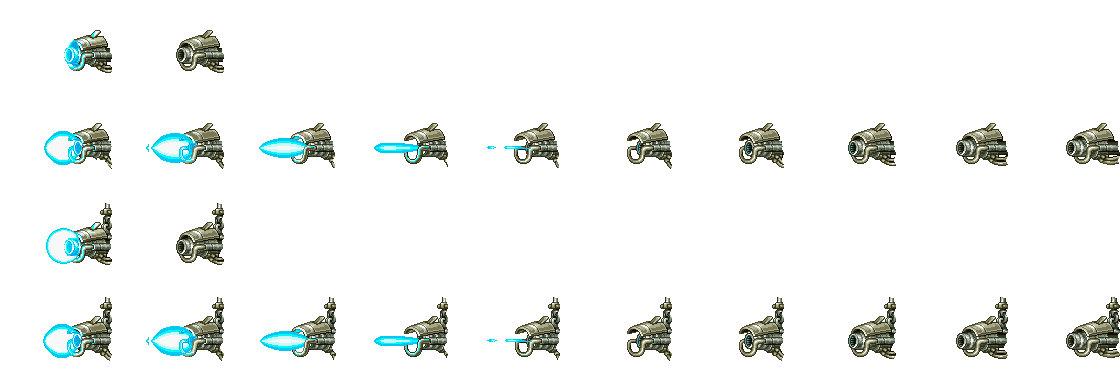
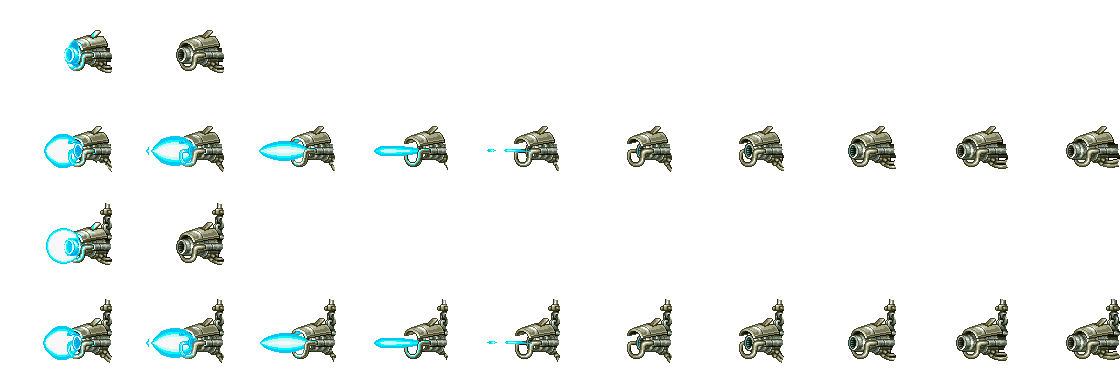
e

diff --git a/Solution/Project1/Boss.cpp b/Solution/Project1/Boss.cpp
@@ -16,7 +16,7 @@ void Boss::Init()
     UnloadImage(imgFlash);
     SetTextureFilter(flashSheet, TEXTURE_FILTER_POINT);
 
-    Image imgLaser = LoadImage("Graphics/boss/laser88x96.png");
+    Image imgLaser = LoadImage("Graphics/boss/laser112x96.png");
     laserSheet = LoadTextureFromImage(imgLaser);
     UnloadImage(imgLaser);
     SetTextureFilter(laserSheet, TEXTURE_FILTER_POINT);
@@ -30,6 +30,13 @@ void Boss::Init()
     tentSheet = LoadTextureFromImage(imgTent);
     UnloadImage(imgTent);
     SetTextureFilter(tentSheet, TEXTURE_FILTER_POINT);
+
+    Image imgLaserFlash = LoadImage("Graphics/boss/laserexplo112x96.png");
+    laserFlashSheet = LoadTextureFromImage(imgLaserFlash);
+    UnloadImage(imgLaserFlash);
+    SetTextureFilter(laserFlashSheet, TEXTURE_FILTER_POINT);
+    laserFlashDelay = CHARGE_DURATION / (float)CHARGE_PATTERN_LENGTH;
+
 
     cannonFrame = 9;
     cannonGoingUp = true;
@@ -85,6 +92,7 @@ void Boss::Update(float playerX)
         UpdateCannon(dt);
 
     UpdatePlasma(dt);
+    UpdateLaserFlash(dt);
 }
 
 void Boss::UpdateIntro(float playerX, float dt)
@@ -322,6 +330,11 @@ void Boss::UpdateLaser(float dt)
                 laserFrame = 0;
                 chargeTimer = 0.0f;
                 laserFrameTimer = 0.0f;
+                laserFlashActive = true;
+                laserFlashStep = 0;
+                laserFlashFrame = CHARGE_PATTERN[0];
+                laserFlashTimer = 0.0f;
+                laserFlashDelay = CHARGE_DURATION / (float)CHARGE_PATTERN_LENGTH;
             }
         }
         else {
@@ -332,24 +345,30 @@ void Boss::UpdateLaser(float dt)
                 laserFrame = 0;
                 chargeTimer = 0.0f;
                 laserFrameTimer = 0.0f;
+                laserFlashActive = true;
+                laserFlashStep = 0;
+                laserFlashFrame = CHARGE_PATTERN[0];
+                laserFlashTimer = 0.0f;
+                laserFlashDelay = CHARGE_DURATION / (float)CHARGE_PATTERN_LENGTH;
             }
         }
         break;
 
     case LaserState::CHARGING:
         chargeTimer += dt;
-
         // Alternar entre frame 0 y 1
         if (laserFrameTimer >= laserFrameDelay) {
             laserFrameTimer = 0.0f;
             laserFrame = (laserFrame + 1) % CHARGE_FRAMES;
         }
-
         if (chargeTimer >= CHARGE_DURATION) {
             laserState = LaserState::FIRING;
             laserFrame = 0;
             laserTimer = 0.0f;
             laserFrameTimer = 0.0f;
+            laserFlashFrame = 0;
+            laserFlashTimer = 0.0f;
+            laserFlashDelay = LASER_DURATION / (float)LASER_FIRE_FRAMES;  // ← nuevo delay para disparo
         }
         break;
 
@@ -369,6 +388,25 @@ void Boss::UpdateLaser(float dt)
             laserFrameTimer = 0.0f;
         }
         break;
+    }
+}
+
+void Boss::UpdateLaserFlash(float dt)
+{
+    laserFlashTimer += dt;
+    if (laserFlashTimer < laserFlashDelay) return;
+    laserFlashTimer = 0.0f;
+
+    if (laserState == LaserState::CHARGING) {
+        laserFlashStep++;
+        if (laserFlashStep >= CHARGE_PATTERN_LENGTH)
+            laserFlashStep = CHARGE_PATTERN_LENGTH - 1;
+        laserFlashFrame = CHARGE_PATTERN[laserFlashStep];
+    }
+    else if (laserState == LaserState::FIRING) {
+        laserFlashFrame++;
+        if (laserFlashFrame >= LASER_FIRE_FRAMES)
+            laserFlashFrame = LASER_FIRE_FRAMES - 1;  // queda en el último frame
     }
 }
 
@@ -586,7 +624,9 @@ void Boss::DrawLaser() const
         laserFrame, rowY, (int)cannonGoingUp);
 
     Rectangle src = { laserFrame * LASER_FRAME_W, rowY, LASER_FRAME_W, LASER_FRAME_H };
-    Rectangle dst = { posX, posY, LASER_FRAME_W * CANNON_SCALE, LASER_FRAME_H * CANNON_SCALE };
+    bool isDown = !cannonGoingUp;
+    float laserDrawY = posY + (isDown ? laserOffsetDownY : laserOffsetUpY);
+    Rectangle dst = { posX + laserOffsetX, laserDrawY, LASER_FRAME_W * CANNON_SCALE, LASER_FRAME_H * CANNON_SCALE };
     Color tint = (isFlashing && hitFlashCount % 2 == 0) ? Color{ 255,220,100,255 } : WHITE;
     DrawTexturePro(laserSheet, src, dst, { 0,0 }, 0.0f, tint);
 
@@ -598,6 +638,7 @@ void Boss::DrawLaser() const
         float endX = posX - 2000.0f;
         DrawLineEx({ startX, startY }, { endX, startY }, 6.0f, { 0, 200, 255, 200 });
     }
+    DrawLaserFlash();
 }
 
 void Boss::DrawTent() const
@@ -615,4 +656,21 @@ void Boss::DrawTent() const
     Rectangle src = { frame * TENT_FRAME_W, rowY, TENT_FRAME_W, TENT_FRAME_H };
     Rectangle dst = { posX + tentOffsetX, posY -30.0f, TENT_FRAME_W * TENT_SCALE, TENT_FRAME_H * TENT_SCALE };
     DrawTexturePro(tentSheet, src, dst, { 0, 0 }, 0.0f, WHITE);
+}
+
+void Boss::DrawLaserFlash() const
+{
+
+    if (laserState != LaserState::CHARGING) return;
+    float rowY = (laserState == LaserState::FIRING) ? LASER_FLASH_FRAME_H : 0.0f;
+
+    int frame = (laserState == LaserState::FIRING)
+        ? laserFlashFrame      // ← recorre los 17 sprites sin loop
+        : laserFlashFrame;     // patrón fila 0
+    
+    bool isDown = !cannonGoingUp;
+    float flashDrawY = posY + (isDown ? laserOffsetDownY -10.0f : laserOffsetUpY);  // ← +50 extra abajo
+    Rectangle dst = { posX + laserOffsetX, flashDrawY, LASER_FLASH_FRAME_W * CANNON_SCALE, LASER_FLASH_FRAME_H * CANNON_SCALE };
+    Rectangle src = { frame * LASER_FLASH_FRAME_W, rowY, LASER_FLASH_FRAME_W, LASER_FLASH_FRAME_H };
+    DrawTexturePro(laserFlashSheet, src, dst, { 0, 0 }, 0.0f, WHITE);
 }

diff --git a/Solution/Project1/Boss.hpp b/Solution/Project1/Boss.hpp
@@ -164,26 +164,53 @@ private:
     static constexpr float LASER_DURATION = 1.0f;
 
     Texture2D laserSheet = { 0 };
-    static constexpr float LASER_FRAME_W = 88.0f;
+    static constexpr float LASER_FRAME_W = 112.0f;
     static constexpr float LASER_FRAME_H = 96.0f;
     static constexpr int   CHARGE_FRAMES = 2;
     static constexpr int   FIRE_FRAMES = 10;
 
-    static constexpr float CHARGE_DOWN_ROW_Y = 0 * 96.0f; 
-    static constexpr float FIRE_DOWN_ROW_Y = 1 * 96.0f;  
-    static constexpr float CHARGE_UP_ROW_Y = 2 * 96.0f;  
-    static constexpr float FIRE_UP_ROW_Y = 3 * 96.0f; 
+    static constexpr float CHARGE_DOWN_ROW_Y = 2 * 96.0f; 
+    static constexpr float FIRE_DOWN_ROW_Y = 3 * 96.0f;  
+    static constexpr float CHARGE_UP_ROW_Y = 0 * 96.0f;  
+    static constexpr float FIRE_UP_ROW_Y = 1 * 96.0f; 
 
     static constexpr float CHARGE_DURATION = 2.0f;  // segundos cargando
     float chargeTimer = 0.0f;
 
     void UpdateLaser(float dt);
     void DrawLaser() const;
+    float laserOffsetX = -223.0f;  // ajusta hasta que quede bien
+    float laserOffsetY = 0.0f;
+    float laserOffsetDownY = 85.0f;   // offset Y cuando dispara abajo
+    float laserOffsetUpY = -50.0f;   // offset Y cuando dispara arriba
 
     float offsetDownX = 0.0f;
     float offsetDownY = 0.0f;
     float offsetUpX = 0.0f;
     float offsetUpY = -150.0f;
+
+    // ── Flash laser fase 2 ────────────────────────────────────
+    Texture2D laserFlashSheet = { 0 };
+    int       laserFlashFrame = 0;
+    int       laserFlashStep = 0;   // paso en el patrón (0-23)
+    float     laserFlashTimer = 0.0f;
+    float laserFlashDelay = 0.06f;  // se sobreescribe en Init()
+    bool      laserFlashActive = false;
+
+    static constexpr float LASER_FLASH_FRAME_W = 112.0f;
+    static constexpr float LASER_FLASH_FRAME_H = 96.0f;
+    static constexpr int   LASER_FIRE_FRAMES = 17;  // fila 1
+
+    // Patrón de carga: 0-1-0-1-0-1-0-1-2-1-2-1-2-1-2-3-2-3-2-3-2-3
+    static constexpr int CHARGE_PATTERN_LENGTH = 22;
+    static constexpr int CHARGE_PATTERN[22] = {
+        0,1,0,1,0,1,0,1,
+        2,1,2,1,2,1,2,
+        3,2,3,2,3,2,3
+    };
+
+    void UpdateLaserFlash(float dt);
+    void DrawLaserFlash() const;
 
     // ── Manta (intro) ─────────────────────────────────────────
     enum class IntroState {
